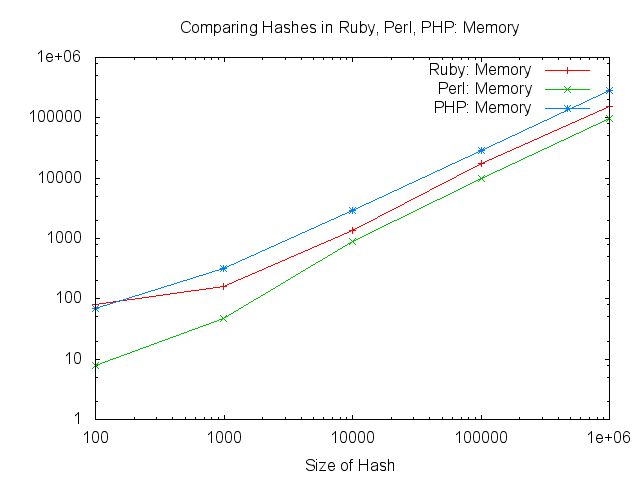
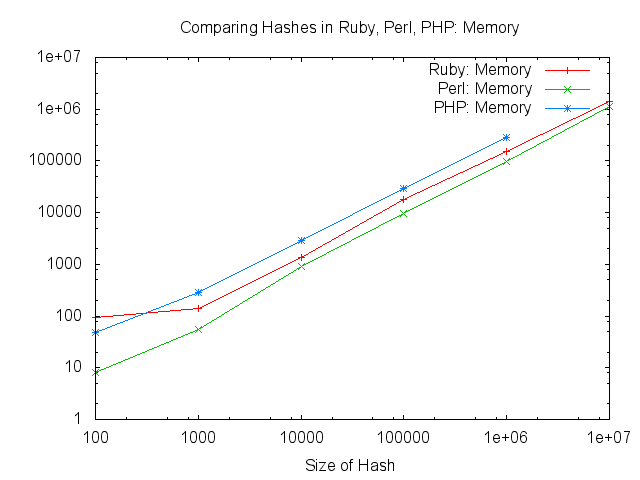
measure up to 10 million - where possible

diff --git a/lookup.rb b/lookup.rb
@@ -1,5 +1,6 @@
 no = ARGV[0]
 dir = "data"
+no_of_test_data = 50
 
 unless no =~  /^\d+$/
   puts "how many lines should I use? please specify on the command line!"
@@ -8,8 +9,8 @@ end
 
 no = no.to_i
 
-if no > 1000000
-  puts "create more input data, only have a million lines!"
+if no > 10000000
+  puts "create more input data, only have 10 million lines!"
   exit
 end
 
@@ -43,21 +44,30 @@ data = ['ruby', no]
 before = get_memory_usage
 data.push(before)
 
-t0 = Time.now
 
 the_hash = Hash.new
 
 count = 0
+counted = false
 f = open( "#{dir}/input#{suffix}.txt")
+t0 = Time.now
 f.each do |l|
   name, number = l.chomp.split
   the_hash[name] = number
   count += 1
   break if count >= no
+  # only count the last 50 inserts
+  if count + no_of_test_data == no then
+    t0 = Time.now
+    counted = true
+  end
 end
 f.close
 
-
+if ! counted then
+  puts "could not measure time to load last #{no_of_test_data} lines of data"
+  exit
+end
 t1 = Time.now
 t = t1 - t0
 
@@ -67,7 +77,6 @@ data.push(after)
 data.push(after-before)
 data.push(t)
 
-no_of_test_data = 50
 
 positive = IO.readlines("#{dir}/input#{suffix}.txt").first(no_of_test_data).map{|l| l.split(/ /).first }
 negative = IO.readlines("#{dir}/negative#{suffix}.txt").map(&:chomp)

diff --git a/lookup.php b/lookup.php
@@ -2,6 +2,9 @@
 
 $dir = "data";
 $suffix = "-7";
+$no_test_data = 50;
+$err_no = 0;
+$errors = Array();
 
 ini_set('memory_limit', -1);
 $no = $argv[1];
@@ -10,8 +13,8 @@ if( ! preg_match('/^\d+$/', $no ) ) {
    die("how many lines of input should I use?  please specify on the command line");
 }
 
-$err_no = 0;
-$errors = Array();
+if($no > 10000000) die("create more test data. I only have 10 million lines!");
+
 
 
 
@@ -42,7 +45,7 @@ $hash = array();
 $in = fopen( "$dir/input$suffix.txt", "r" ) or die("cannot read!");
 
 $count = 0;
-$t0 = microtime(true);
+$counted = false;
 while( $l = fgets($in) ){
   $l = rtrim($l);
   list($key, $value) = explode(' ', $l);
@@ -50,9 +53,15 @@ while( $l = fgets($in) ){
   
   $hash[$key] = $value;
   $count++;
+  if( $count == $no - $no_test_data ) {
+    $t0 = microtime(true);
+    $counted = true;
+  }
   if( $count >= $no ) break;
 }
 fclose($in);
+
+if(! $counted) die("could not measure time to load last $no_test_data lines of data");
 
 $t1 = microtime(true);
 $t = $t1 - $t0;
@@ -64,7 +73,6 @@ $data[]=$after;
 $data[]=$mem;
 $data[]=$t;
 
-$no_test_data = 50;
 
 $in = fopen( "$dir/input$suffix.txt", "r" ) or die("cannot read!");
 $count = 0;
